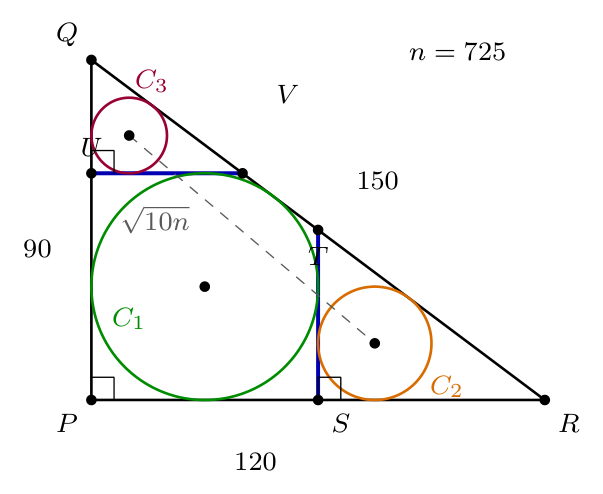
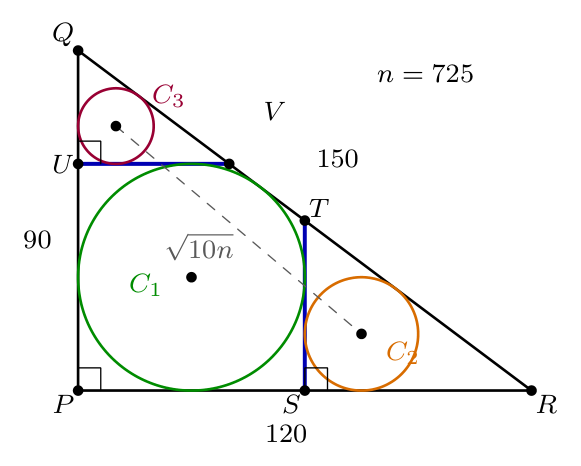
Skip label tidying on the curated AIME demo figure.

diff --git a/src/geotikz/webapp.py b/src/geotikz/webapp.py
@@ -167,43 +167,26 @@ def _aime_demo_result(
     """Instant specialist success for the filmed AIME Examples path.
 
     Live illustrator-4b-v2 often truncates this scene (token cut-off), which
-    triggers a ~60s frontier redraw. Ship the known-good specialist TikZ, then
-    run the same label-tidying + compile path as every other figure.
+    triggers a ~60s frontier redraw. Ship the curated specialist TikZ + PNG
+    as-is (do NOT run tidy_labels — it over-moves hand-placed demo labels).
     """
     png_src = static_dir / "assets" / "demo" / "aime_2001_II_7_specialist_render.png"
     tikz_src = static_dir / "assets" / "demo" / "aime_2001_II_7.tikz"
-    if not tikz_src.is_file():
+    if not png_src.is_file() or not tikz_src.is_file():
         return None
     dest = out_dir / "aime_2001_II_7_demo.png"
     try:
+        shutil.copy2(png_src, dest)
         tikz = tikz_src.read_text(encoding="utf-8")
     except Exception:  # noqa: BLE001
-        logger.exception("AIME demo TikZ missing")
+        logger.exception("AIME demo assets missing")
         return None
-
-    # Same gate as live chat: tidy labels, compile; fall back to baked PNG.
-    from . import serve as _serve
-
-    tidied = _serve.tidy_labels(tikz)
-    body = tidied if (tidied or "").strip() else tikz
-    r = _serve.compile_and_render(body, dest, dpi=220)
-    if not r.ok:
-        if png_src.is_file():
-            try:
-                shutil.copy2(png_src, dest)
-                body = tikz
-            except Exception:  # noqa: BLE001
-                logger.exception("AIME demo PNG fallback failed")
-                return None
-        else:
-            return None
-
     lbl = _resolve_label(specialist_label)
     return copilot.RouteResult(
         str(dest),
-        body,
+        tikz,
         _attr(lbl),
-        "Specialist drew it (demo cache, labels tidied, compiled).",
+        "Specialist drew it (demo cache, compiled).",
     )
 
 